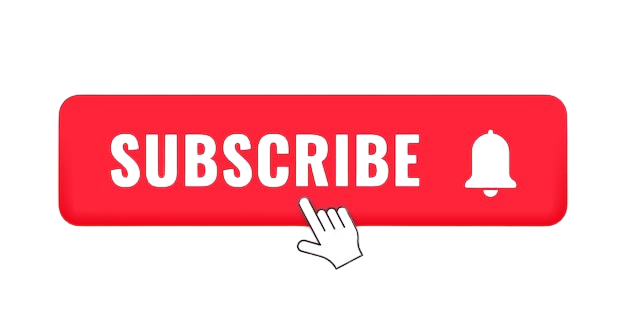
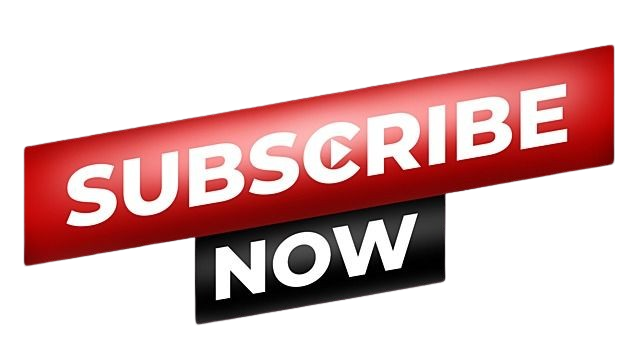
change subscribe button

diff --git a/templates/subscribe.html b/templates/subscribe.html
@@ -18,22 +18,21 @@
 
             <div class="container-fluid table-responsive">
                 <div class="pt-3 pb-3 border-bottom border-secondary">
-                    <div class="text-center">
-                    <a href="https://api.whatsapp.com/send/?phone=254759697757&text=subscribe"
-                        title="Subscribe to Tipspesa" target="_blank" >
-                        <img src="{{ url_for('static', filename='subscribe.png') }}" alt="homepage"
-                            width="200" />
-                    </a>
-                </div>
                     <h5 class="text-center"><u>Subscription Guide</u></h5>
                     <ol>
-                        <li>Click Subscribe Button</li>
+                        <li>Click <b><i>Subscribe Now Button</i></b> below</li>
                         <li>You will be redirected to Whatsapp</li>
-                        <li>Confirm Send the word "<b>subscribe</b>" to our <b>A.I.</b> Whatsapp no - <b>+254 759 697757</b></li>
+                        <li>Confirm Send the word "<b>subscribe</b>" to our Tipspesa Official Whatsapp no - <b>+254 759
+                                697757</b></li>
                         <li>We will send you our predictions daily via Whatsapp - With a unique link to view all our
                             predictions</li>
                     </ol>
                     <div class="col-12 text-center">
+                        <a href="https://api.whatsapp.com/send/?phone=254759697757&text=subscribe"
+                            title="Subscribe to Tipspesa" target="_blank">
+                            <img src="{{ url_for('static', filename='subscribe.png') }}" alt="homepage" width="200" />
+                        </a>
+                        <br />
                         <a href="{{ url_for('terms_and_conditions') }}">Terms and conditions</a> apply.
                     </div>
                 </div>
